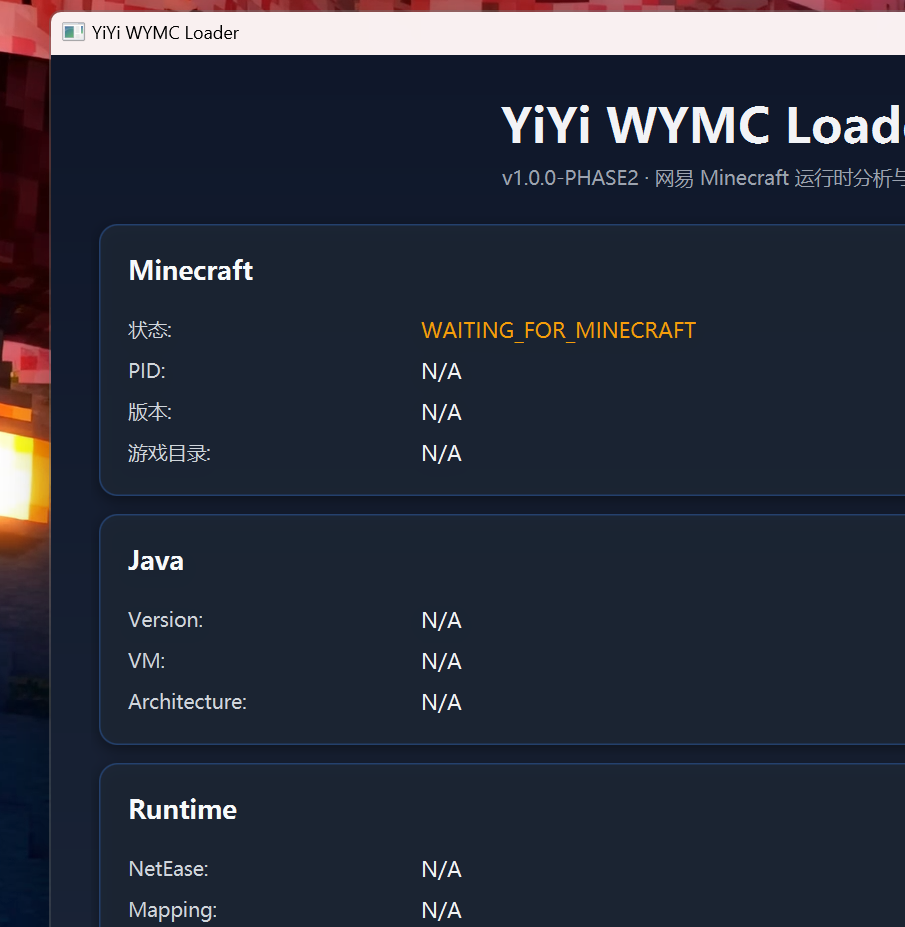
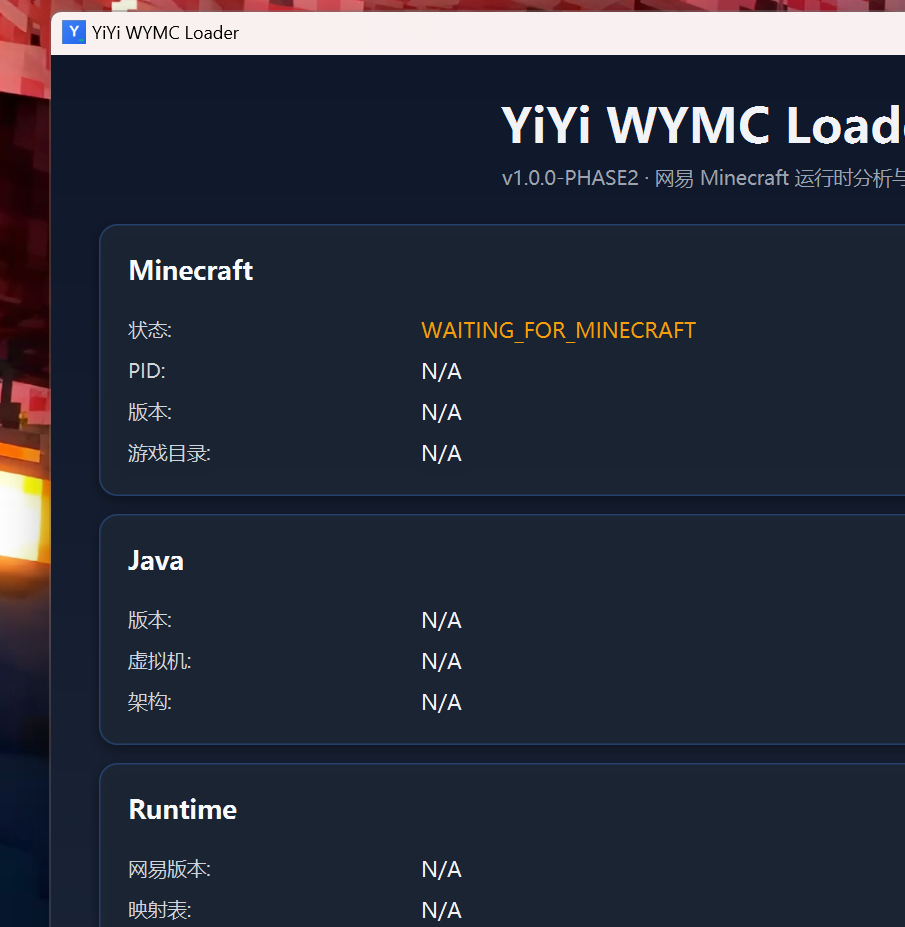
fix: 窗口图标和完全汉化
- 添加自定义窗口图标（蓝色渐变 Y + Minecraft 方块）
- 所有字段完全汉化：
  * Java: 版本、虚拟机、架构
  * Runtime: 网易版本、映射表、混淆类型、类加载器
  * Unpack: 运行时类、恢复进度、类导出
  * Injection: 进程附加、字节码增强、Agent 状态
  * Server: 连接状态、服务器品牌、协议版本、服务器地址、端口、延迟
- 更新截图

diff --git a/wymc-launcher/src/main/java/com/yiyiaddon/wymc/launcher/ui/fx/FxMainWindow.java b/wymc-launcher/src/main/java/com/yiyiaddon/wymc/launcher/ui/fx/FxMainWindow.java
@@ -70,6 +70,16 @@ public class FxMainWindow extends Application {
         primaryStage.setTitle("YiYi WYMC Loader");
         primaryStage.initStyle(StageStyle.DECORATED);
         
+        // 设置窗口图标
+        try {
+            javafx.scene.image.Image icon = new javafx.scene.image.Image(
+                getClass().getResourceAsStream("/icon.png")
+            );
+            primaryStage.getIcons().add(icon);
+        } catch (Exception e) {
+            LOGGER.warn("无法加载窗口图标", e);
+        }
+        
         VBox root = createMainLayout();
         
         Scene scene = new Scene(root, 900, 900);
@@ -150,9 +160,9 @@ public class FxMainWindow extends Application {
         javaArchLabel = createValueLabel("N/A");
         
         return createSection("Java",
-            createInfoRow("Version:", javaVersionLabel),
-            createInfoRow("VM:", javaVmLabel),
-            createInfoRow("Architecture:", javaArchLabel)
+            createInfoRow("版本:", javaVersionLabel),
+            createInfoRow("虚拟机:", javaVmLabel),
+            createInfoRow("架构:", javaArchLabel)
         );
     }
     
@@ -163,10 +173,10 @@ public class FxMainWindow extends Application {
         classLoaderLabel = createValueLabel("N/A");
         
         return createSection("Runtime",
-            createInfoRow("NetEase:", netEaseLabel),
-            createInfoRow("Mapping:", mappingLabel),
-            createInfoRow("Obfuscation:", obfuscationLabel),
-            createInfoRow("ClassLoader:", classLoaderLabel)
+            createInfoRow("网易版本:", netEaseLabel),
+            createInfoRow("映射表:", mappingLabel),
+            createInfoRow("混淆类型:", obfuscationLabel),
+            createInfoRow("类加载器:", classLoaderLabel)
         );
     }
     
@@ -176,9 +186,9 @@ public class FxMainWindow extends Application {
         classDumpLabel = createValueLabel("N/A");
         
         return createSection("Unpack",
-            createInfoRow("Runtime Classes:", runtimeClassesLabel),
-            createInfoRow("Runtime Recovery:", runtimeRecoveryLabel),
-            createInfoRow("Class Dump:", classDumpLabel)
+            createInfoRow("运行时类:", runtimeClassesLabel),
+            createInfoRow("恢复进度:", runtimeRecoveryLabel),
+            createInfoRow("类导出:", classDumpLabel)
         );
     }
     
@@ -188,9 +198,9 @@ public class FxMainWindow extends Application {
         agentLabel = createValueLabel("N/A");
         
         return createSection("Injection",
-            createInfoRow("Attach:", attachLabel),
-            createInfoRow("Instrumentation:", instrumentationLabel),
-            createInfoRow("Agent:", agentLabel)
+            createInfoRow("进程附加:", attachLabel),
+            createInfoRow("字节码增强:", instrumentationLabel),
+            createInfoRow("Agent 状态:", agentLabel)
         );
     }
     
@@ -203,12 +213,12 @@ public class FxMainWindow extends Application {
         serverLatencyLabel = createValueLabel("N/A");
         
         return createSection("Server",
-            createInfoRow("Connected:", serverConnectedLabel),
-            createInfoRow("Brand:", serverBrandLabel),
-            createInfoRow("Protocol:", serverProtocolLabel),
-            createInfoRow("Address:", serverAddressLabel),
-            createInfoRow("Port:", serverPortLabel),
-            createInfoRow("Latency:", serverLatencyLabel)
+            createInfoRow("连接状态:", serverConnectedLabel),
+            createInfoRow("服务器品牌:", serverBrandLabel),
+            createInfoRow("协议版本:", serverProtocolLabel),
+            createInfoRow("服务器地址:", serverAddressLabel),
+            createInfoRow("端口:", serverPortLabel),
+            createInfoRow("延迟:", serverLatencyLabel)
         );
     }
     
